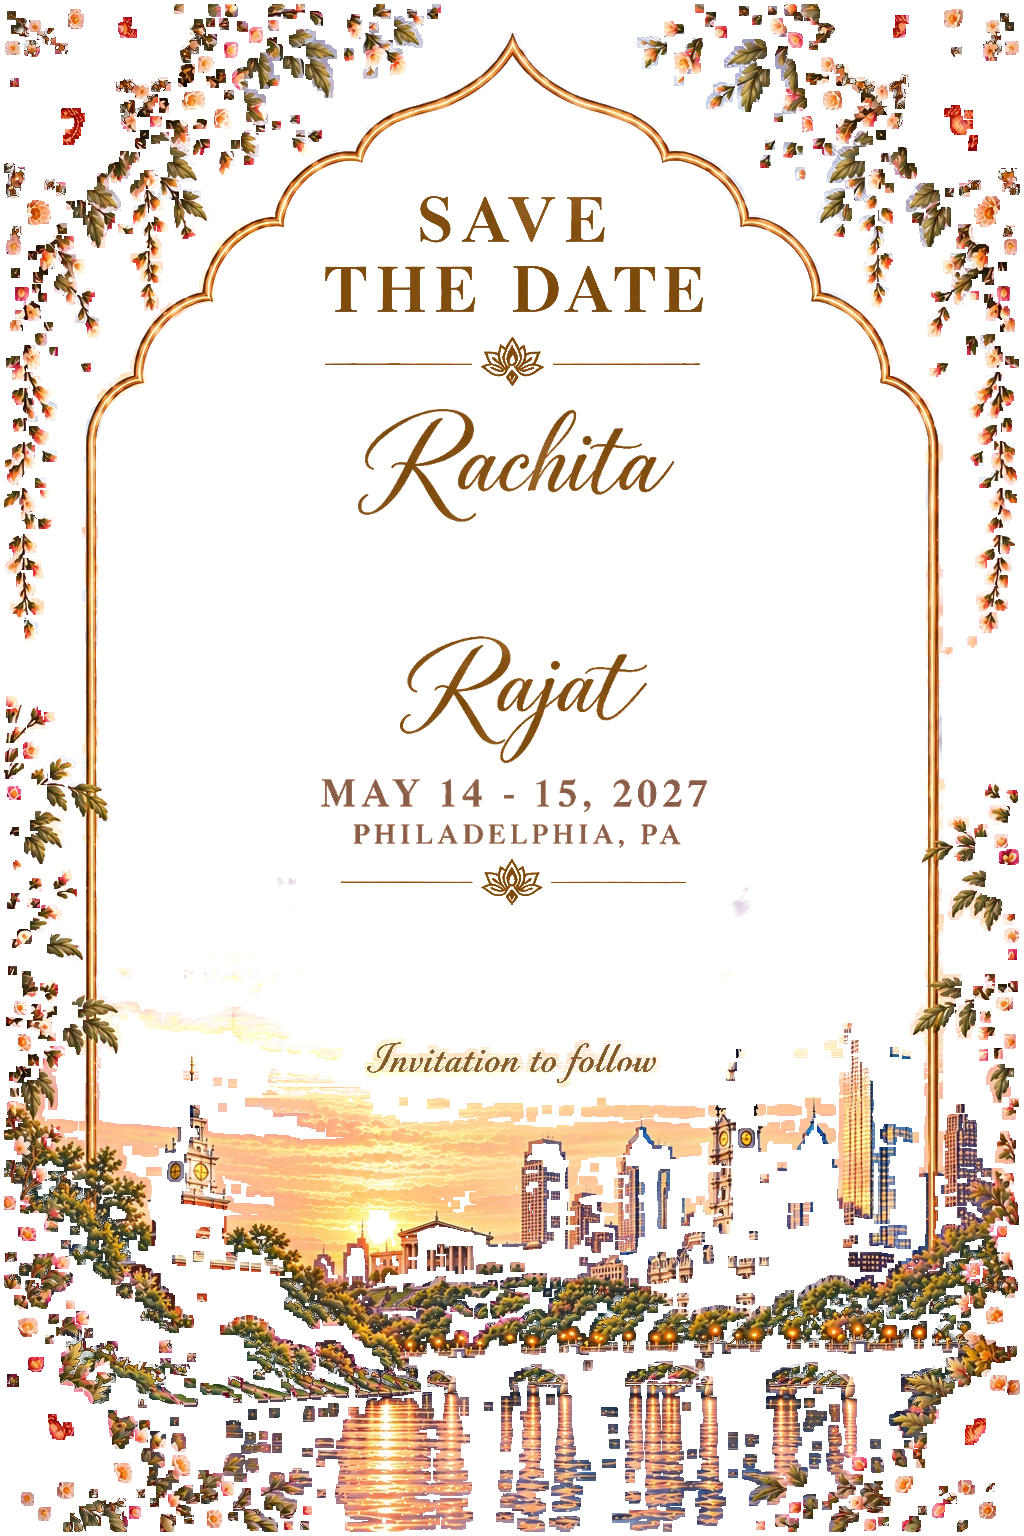
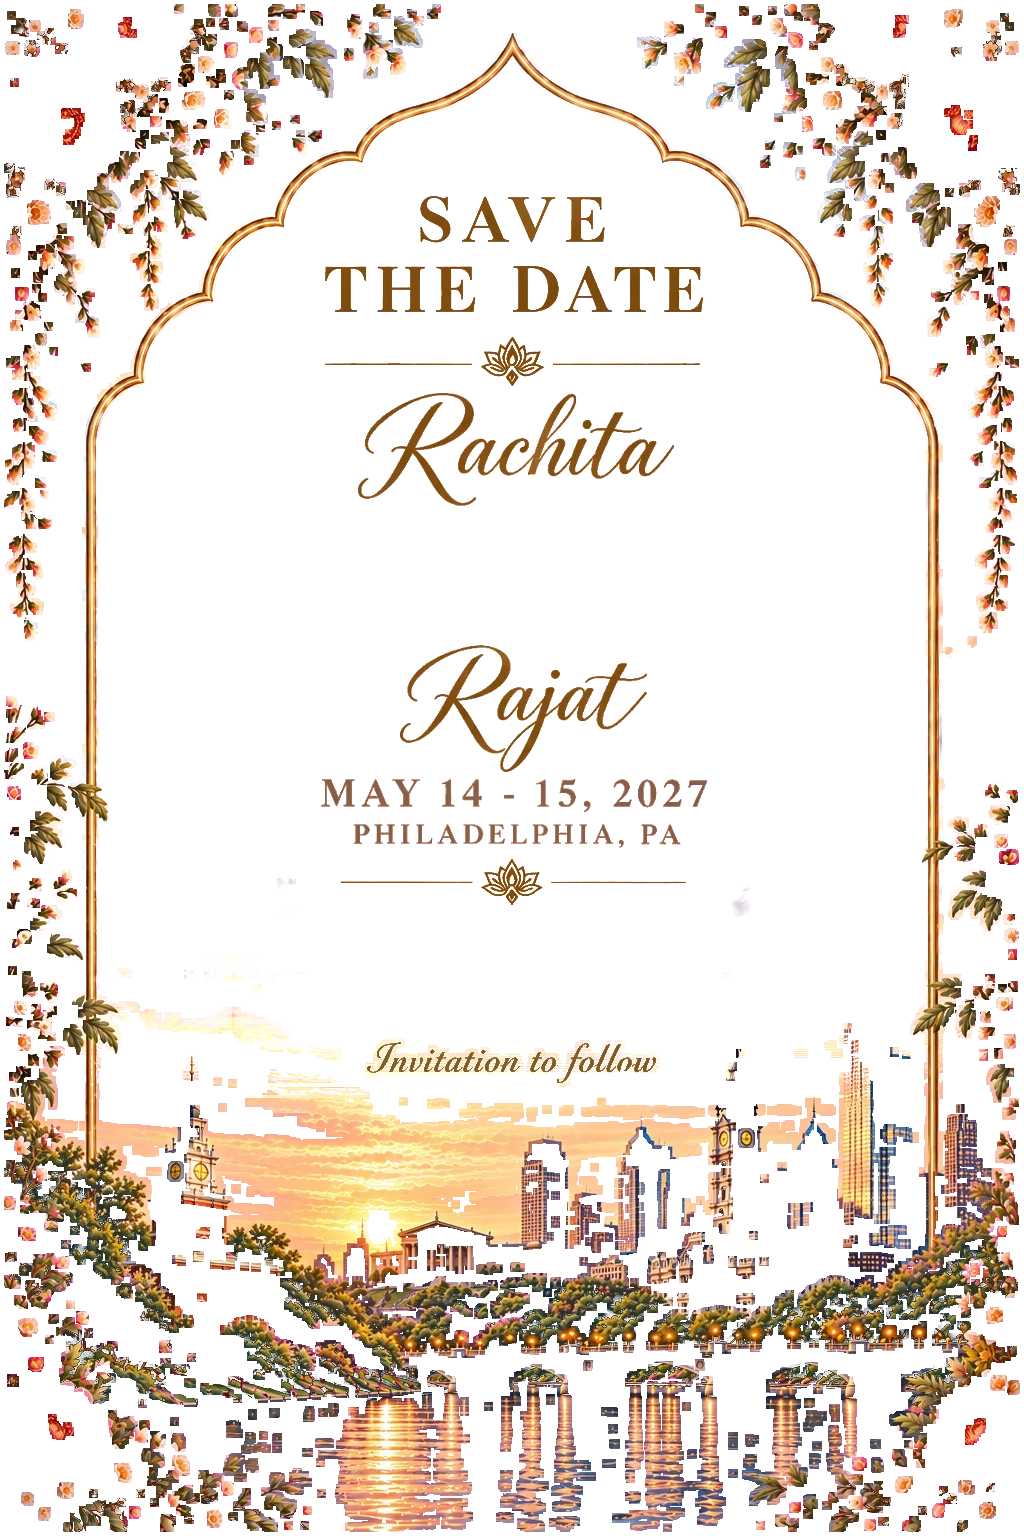
Bow 20% larger and 20% slower; names spread to make room
- Move Rachita up 16 px and Rajat down 9 px, leaving about 8 px to the
  lotus line and the date. This is done by shifting the lettering layer;
  the base art changes only by the exact difference.
- Bow: 170 px wide (was 142), with about 11 px clearance to both names,
  centred where it was.
- Bow formation: 4.0 s (was 3.2 s).

Changed region(s): [[0.3438, 0.25, 0.6562, 0.3438], [0.375, 0.4062, 0.625, 0.5]]

diff --git a/index.html b/index.html
@@ -6,7 +6,7 @@
     <meta name="theme-color" content="#eac5bb" />
     <meta name="description" content="Save the date for Rachita and Rajat, May 14–15, 2027, in Philadelphia, Pennsylvania." />
     <meta name="robots" content="noindex, nofollow" />
-    <link rel="preload" as="image" href="./save-the-date-skyline.png" fetchpriority="high" />
+    <link rel="preload" as="image" href="./save-the-date-names.png" fetchpriority="high" />
     <title>Rachita & Rajat · Save the Date</title>
   </head>
   <body>

diff --git a/src/BowTie.tsx b/src/BowTie.tsx
@@ -5,7 +5,8 @@ import './bow.css';
 
 // Where the approved bow sits in the 1024 x 1536 artwork.
 const ART = { width: 1024, height: 1536 };
-const BOW = { x: 448.75, y: 530, width: 142 };
+// 20% larger than first placed, centred in the widened gap between the names
+const BOW = { x: 434.55, y: 517, width: 170.4 };
 const SCALE = BOW.width / BOW_SIZE.width;
 // the canvas just covers the finished bow, with a little room for the settle
 const VIEW = { x0: -6, x1: 204, y0: -6, y1: 143 };

diff --git a/src/animation/bowTie.ts b/src/animation/bowTie.ts
@@ -62,7 +62,7 @@ const sections: Section[] = (Object.keys(ARMS) as ArmName[]).map((name) => ({
 // ---- the choreography ----------------------------------------------------------
 
 /** Length of the whole formation, in seconds. */
-export const BOW_FORM_SECONDS = 3.2;
+export const BOW_FORM_SECONDS = 4.0;   // 20% slower than the first 3.2 s
 
 type Pose = { reveal: number; scale: number; turn: number };   // reveal in steps along the section
 

diff --git a/src/styles.css b/src/styles.css
@@ -23,7 +23,7 @@ body { overflow-x: hidden; }
   position: fixed;
   z-index: -1;
   inset: -48px;
-  background: linear-gradient(#efd5cc38, #b4768938), url('/save-the-date-skyline.png') center / cover no-repeat;
+  background: linear-gradient(#efd5cc38, #b4768938), url('/save-the-date-names.png') center / cover no-repeat;
   filter: blur(30px) saturate(.8);
   transform: scale(1.04);
   pointer-events: none;

diff --git a/src/App.tsx b/src/App.tsx
@@ -5,7 +5,7 @@ import { Countdown } from './Countdown';
 import { MusicToggle } from './MusicToggle';
 import { Soundtrack } from './soundtrack';
 
-const imageUrl = `${import.meta.env.BASE_URL}save-the-date-skyline.png`;
+const imageUrl = `${import.meta.env.BASE_URL}save-the-date-names.png`;
 const soundtrack = new Soundtrack();
 
 export function App() {

diff --git a/README.md b/README.md
@@ -15,7 +15,7 @@ Open the URL printed by Vite. `npm run build` creates a production site in `dist
 
 1. Blurred copy of the artwork behind the card.
 2. The approved envelope artwork, centred at about a quarter of the screen area (`src/EnvelopeIntro.tsx`). It is split into three layers in `src/assets/`: the body (with the paper under the flap painted in), the flap with its gold border and filigree, and the flap's resting shadow. The flap hinges on the envelope's top edge and flips open.
-3. The artwork PNG (`public/save-the-date-skyline.png`): the sky inside the arch and its clouds come from the colour reference, the lettering uses its antique-gold and gold-brown tones, and the printed countdown box is retouched out. "AND" between the names is replaced by a flowering-vine bow, and the names are at 75% size and spaced apart to make room for it. The bow is not baked into the PNG: `src/BowTie.tsx` and `src/animation/bowTie.ts` animate it forming in place (knot, then loops unfurling, then tails) once the invitation is fully visible, then show the approved painting (`src/assets/bow/bow.png`) in its exact place. On top, the live SVG countdown uses the original design at 80% size.
+3. The artwork PNG (`public/save-the-date-names.png`): the sky inside the arch and its clouds come from the colour reference, the lettering uses its antique-gold and gold-brown tones, and the printed countdown box is retouched out. "AND" between the names is replaced by a flowering-vine bow, and the names are at 75% size and spaced apart to make room for it. The bow is not baked into the PNG: `src/BowTie.tsx` and `src/animation/bowTie.ts` animate it forming in place (knot, then loops unfurling, then tails) once the invitation is fully visible, then show the approved painting (`src/assets/bow/bow.png`) in its exact place. On top, the live SVG countdown uses the original design at 80% size.
 4. A WebGL layer (`src/animation/ambient.ts`) that redraws the card each frame. Water ripples through layered drifting noise, and its existing golden reflections shimmer as independent horizontal streaks. The edge flowers and leaves sway in a wind field, anchored at the card's edges. The whole sky drifts slowly beneath the lettering, lotus dividers and arch line, which are redrawn on top. The maps it uses are in `src/assets/ambient/`. Without WebGL, the still painting shows.
 5. Lightweight canvas petals falling across the card (`src/animation/petals.ts`).
 
